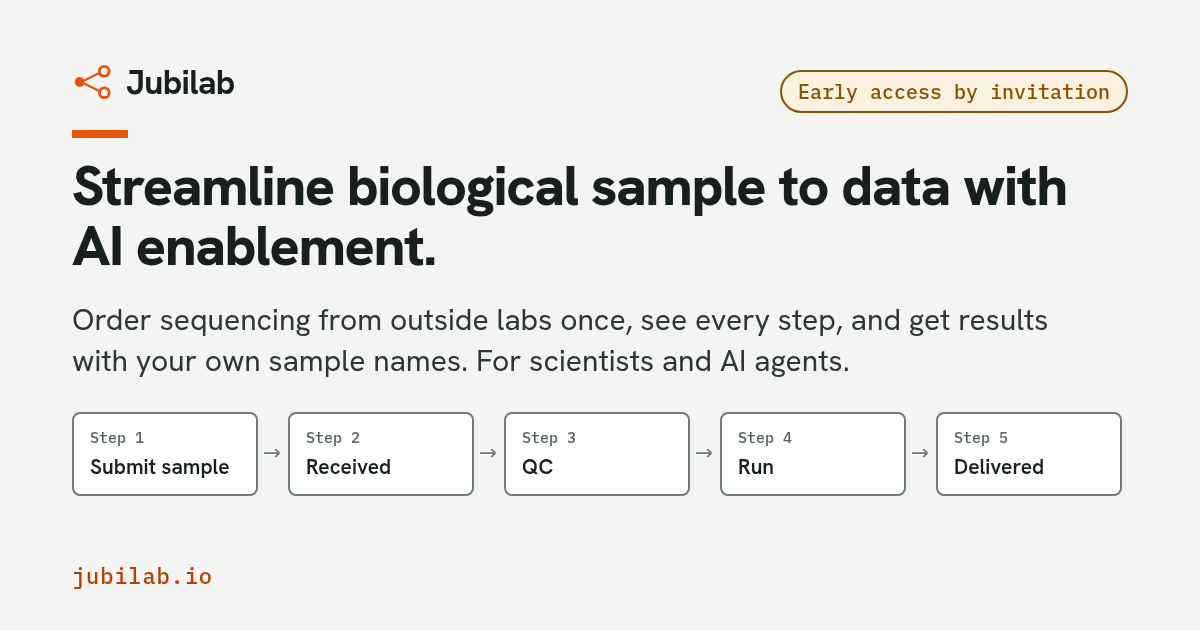
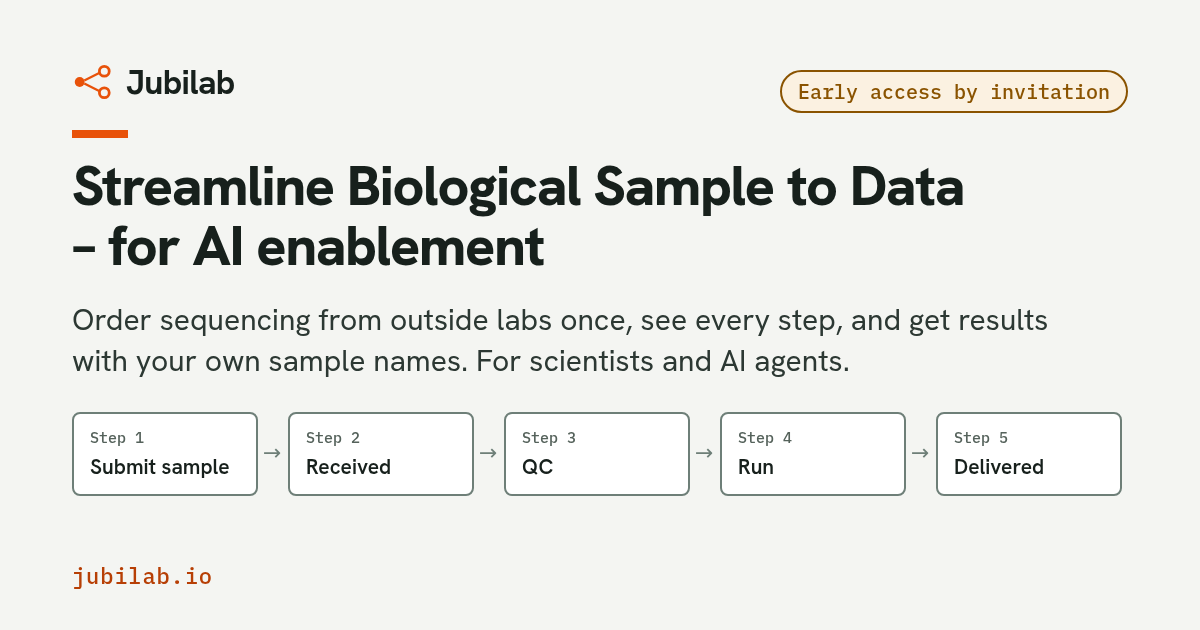
feat(site): new headline 'Streamline Biological Sample to Data – for AI enablement', smaller hero H1 (T-051)

Changed region(s): [[0.2775, 0.2413, 0.8942, 0.3317], [0.0617, 0.3619, 0.4625, 0.4222]]

diff --git a/index.html b/index.html
@@ -4,24 +4,24 @@
 <script>window.dataLayer=window.dataLayer||[];function gtag(){dataLayer.push(arguments)}gtag('consent','default',{ad_storage:'denied',ad_user_data:'denied',ad_personalization:'denied',analytics_storage:'denied'})</script>
 <meta charset="utf-8">
 <meta name="viewport" content="width=device-width, initial-scale=1">
-<title>Jubilab: streamline biological sample to data with AI enablement</title>
+<title>Jubilab: Streamline Biological Sample to Data – for AI enablement</title>
 <meta name="description" content="Early access by invitation. Jubilab is the sample operations layer that connects the people, labs, couriers and AI agents handling a sample, from order to data.">
 <meta name="theme-color" content="#ffffff">
 <link rel="canonical" href="https://jubilab.io/">
 <meta property="og:type" content="website">
 <meta property="og:site_name" content="Jubilab">
-<meta property="og:title" content="Jubilab: streamline biological sample to data with AI enablement">
+<meta property="og:title" content="Jubilab: Streamline Biological Sample to Data – for AI enablement">
 <meta property="og:description" content="Early access by invitation. Jubilab is the sample operations layer that connects the people, labs, couriers and AI agents handling a sample, from order to data.">
 <meta property="og:url" content="https://jubilab.io/">
 <meta property="og:image" content="https://jubilab.io/assets/og/jubilab-og.png">
 <meta property="og:image:width" content="1200">
 <meta property="og:image:height" content="630">
-<meta property="og:image:alt" content="Jubilab: streamline biological sample to data with AI enablement. An order moves from sample submission through received, QC and run to delivered. Early access by invitation.">
+<meta property="og:image:alt" content="Jubilab: Streamline Biological Sample to Data – for AI enablement. An order moves from sample submission through received, QC and run to delivered. Early access by invitation.">
 <meta name="twitter:card" content="summary_large_image">
-<meta name="twitter:title" content="Jubilab: streamline biological sample to data with AI enablement">
+<meta name="twitter:title" content="Jubilab: Streamline Biological Sample to Data – for AI enablement">
 <meta name="twitter:description" content="Early access by invitation. Jubilab is the sample operations layer that connects the people, labs, couriers and AI agents handling a sample, from order to data.">
 <meta name="twitter:image" content="https://jubilab.io/assets/og/jubilab-og.png">
-<meta name="twitter:image:alt" content="Jubilab: streamline biological sample to data with AI enablement. An order moves from sample submission through received, QC and run to delivered. Early access by invitation.">
+<meta name="twitter:image:alt" content="Jubilab: Streamline Biological Sample to Data – for AI enablement. An order moves from sample submission through received, QC and run to delivered. Early access by invitation.">
 <link rel="icon" href="assets/favicon.svg" type="image/svg+xml">
 <link rel="preload" href="assets/fonts/inter-latin-wght-normal.woff2" as="font" type="font/woff2" crossorigin>
 <link rel="preload" href="assets/fonts/manrope-latin-wght-normal.woff2" as="font" type="font/woff2" crossorigin>
@@ -80,7 +80,7 @@
   <div class="wrap hero-grid">
     <div class="hero-text">
       <span class="eyebrow">The sample operations layer</span>
-      <h1 id="h1">Streamline biological sample to data with AI enablement.</h1>
+      <h1 id="h1">Streamline Biological Sample to Data <span class="h1-tail">– for AI enablement</span></h1>
       <p class="hero-lead">So scientists and AI agents can order, track and read results across dry labs, wet labs and logistics.</p>
       <p class="hero-sub">For biotech teams, research groups and the labs that run their samples.</p>
       <div class="actions">

diff --git a/home.css b/home.css
@@ -66,13 +66,13 @@ section { padding:94px 0; }
 .hero { padding:78px 0 76px; overflow:hidden; }
 .hero-grid { display:grid; grid-template-columns:minmax(0,.95fr) minmax(0,1.05fr); align-items:center; gap:56px; }
 h1,h2,h3,p { margin-top:0; }
-h1 { max-width:720px; margin:18px 0 22px; font-size:clamp(2.1rem, 3.9vw, 3.45rem); line-height:1.04; letter-spacing:-.055em; font-weight:730; }
+h1 { max-width:720px; margin:18px 0 22px; font-size:clamp(1.85rem, 3.45vw, 3.05rem); line-height:1.04; letter-spacing:-.055em; font-weight:730; }
 .hero-lead { max-width:620px; color:#2b3a55; font-size:1.18rem; line-height:1.55; }
 .hero-sub { max-width:600px; margin:17px 0 28px; color:var(--muted); font-size:.98rem; }
 .actions { display:flex; flex-wrap:wrap; gap:11px; }
 section { padding:76px 0; border-top:1px solid var(--line); }
 .section-head { max-width:700px; margin-bottom:36px; }
-h2 { margin-bottom:15px; font-size:clamp(1.85rem, 3.5vw, 2.9rem); line-height:1.08; letter-spacing:-.055em; font-weight:720; }
+h2 { margin-bottom:15px; font-size:clamp(1.75rem, 3.3vw, 2.75rem); line-height:1.08; letter-spacing:-.055em; font-weight:720; }
 .section-intro { color:var(--muted); font-size:1.08rem; }
 h3 { margin-bottom:9px; font-size:1.12rem; line-height:1.3; letter-spacing:-.025em; }
 .muted { color:var(--muted); }
@@ -148,7 +148,7 @@ textarea { min-height:95px; resize:vertical; }
   .navlinks { width:100%; justify-content:space-between; order:3; font-size:.82rem; }
   .nav > .button { padding:9px 12px; font-size:.82rem; }
   .hero { padding:43px 0 55px; }
-  h1 { font-size:clamp(2.15rem, 10vw, 3.05rem); }
+  h1 { font-size:clamp(1.9rem, 8.9vw, 2.7rem); }
   section { padding:55px 0; }
   .comparison, .metrics, .form-grid { grid-template-columns:1fr; }
   .field.full { grid-column:auto; }
@@ -437,3 +437,4 @@ blockquote.story-quote { margin:0; }
     .biligene-logo { display:inline-block; margin:0 0 22px -10px; border-radius:8px; }
     .biligene-logo img { display:block; width:240px; max-width:100%; height:auto; }
     @media (max-width:600px) { .biligene-logo img { width:180px; } }
+    .h1-tail { white-space:nowrap; }

diff --git a/guides/what-parameters-produced-this-result/index.html b/guides/what-parameters-produced-this-result/index.html
@@ -16,12 +16,12 @@
 <meta property="og:image" content="https://jubilab.io/assets/og/jubilab-og.png">
 <meta property="og:image:width" content="1200">
 <meta property="og:image:height" content="630">
-<meta property="og:image:alt" content="Jubilab: streamline biological sample to data with AI enablement. An order moves from sample submission through received, QC and run to delivered. Early access by invitation.">
+<meta property="og:image:alt" content="Jubilab: Streamline Biological Sample to Data – for AI enablement. An order moves from sample submission through received, QC and run to delivered. Early access by invitation.">
 <meta name="twitter:card" content="summary_large_image">
 <meta name="twitter:title" content="What parameters produced this pipeline result? | Jubilab">
 <meta name="twitter:description" content="Find the parameters behind a pipeline result from Nextflow logs and params files, Snakemake metadata or shell history, see what gets lost, and what to record.">
 <meta name="twitter:image" content="https://jubilab.io/assets/og/jubilab-og.png">
-<meta name="twitter:image:alt" content="Jubilab: streamline biological sample to data with AI enablement. An order moves from sample submission through received, QC and run to delivered. Early access by invitation.">
+<meta name="twitter:image:alt" content="Jubilab: Streamline Biological Sample to Data – for AI enablement. An order moves from sample submission through received, QC and run to delivered. Early access by invitation.">
 <link rel="icon" href="../../assets/favicon.svg" type="image/svg+xml">
 <link rel="preload" href="../../assets/fonts/hanken-grotesk-latin-wght-normal.woff2" as="font" type="font/woff2" crossorigin>
 <link rel="preload" href="../../assets/fonts/ibm-plex-mono-latin-400-normal.woff2" as="font" type="font/woff2" crossorigin>

diff --git a/guides/index.html b/guides/index.html
@@ -16,12 +16,12 @@
 <meta property="og:image" content="https://jubilab.io/assets/og/jubilab-og.png">
 <meta property="og:image:width" content="1200">
 <meta property="og:image:height" content="630">
-<meta property="og:image:alt" content="Jubilab: streamline biological sample to data with AI enablement. An order moves from sample submission through received, QC and run to delivered. Early access by invitation.">
+<meta property="og:image:alt" content="Jubilab: Streamline Biological Sample to Data – for AI enablement. An order moves from sample submission through received, QC and run to delivered. Early access by invitation.">
 <meta name="twitter:card" content="summary_large_image">
 <meta name="twitter:title" content="Guides: genome builds, parameters, Nextflow provenance | Jubilab">
 <meta name="twitter:description" content="How-to guides for bioinformatics teams: check the reference genome build of a VCF, find the parameters behind a result, and compare Nextflow provenance tools.">
 <meta name="twitter:image" content="https://jubilab.io/assets/og/jubilab-og.png">
-<meta name="twitter:image:alt" content="Jubilab: streamline biological sample to data with AI enablement. An order moves from sample submission through received, QC and run to delivered. Early access by invitation.">
+<meta name="twitter:image:alt" content="Jubilab: Streamline Biological Sample to Data – for AI enablement. An order moves from sample submission through received, QC and run to delivered. Early access by invitation.">
 <link rel="icon" href="../assets/favicon.svg" type="image/svg+xml">
 <link rel="preload" href="../assets/fonts/hanken-grotesk-latin-wght-normal.woff2" as="font" type="font/woff2" crossorigin>
 <link rel="preload" href="../assets/fonts/ibm-plex-mono-latin-400-normal.woff2" as="font" type="font/woff2" crossorigin>

diff --git a/guides/reference-genome-build-vcf-bam/index.html b/guides/reference-genome-build-vcf-bam/index.html
@@ -16,12 +16,12 @@
 <meta property="og:image" content="https://jubilab.io/assets/og/jubilab-og.png">
 <meta property="og:image:width" content="1200">
 <meta property="og:image:height" content="630">
-<meta property="og:image:alt" content="Jubilab: streamline biological sample to data with AI enablement. An order moves from sample submission through received, QC and run to delivered. Early access by invitation.">
+<meta property="og:image:alt" content="Jubilab: Streamline Biological Sample to Data – for AI enablement. An order moves from sample submission through received, QC and run to delivered. Early access by invitation.">
 <meta name="twitter:card" content="summary_large_image">
 <meta name="twitter:title" content="Check the reference genome build of a VCF or BAM | Jubilab">
 <meta name="twitter:description" content="Read a VCF or BAM header with bcftools and samtools, compare contig lengths, test REF alleles and avoid chr-prefix and hg19 vs b37 traps. Tested commands.">
 <meta name="twitter:image" content="https://jubilab.io/assets/og/jubilab-og.png">
-<meta name="twitter:image:alt" content="Jubilab: streamline biological sample to data with AI enablement. An order moves from sample submission through received, QC and run to delivered. Early access by invitation.">
+<meta name="twitter:image:alt" content="Jubilab: Streamline Biological Sample to Data – for AI enablement. An order moves from sample submission through received, QC and run to delivered. Early access by invitation.">
 <link rel="icon" href="../../assets/favicon.svg" type="image/svg+xml">
 <link rel="preload" href="../../assets/fonts/hanken-grotesk-latin-wght-normal.woff2" as="font" type="font/woff2" crossorigin>
 <link rel="preload" href="../../assets/fonts/ibm-plex-mono-latin-400-normal.woff2" as="font" type="font/woff2" crossorigin>

diff --git a/guides/nextflow-provenance-and-lineage-compared/index.html b/guides/nextflow-provenance-and-lineage-compared/index.html
@@ -16,12 +16,12 @@
 <meta property="og:image" content="https://jubilab.io/assets/og/jubilab-og.png">
 <meta property="og:image:width" content="1200">
 <meta property="og:image:height" content="630">
-<meta property="og:image:alt" content="Jubilab: streamline biological sample to data with AI enablement. An order moves from sample submission through received, QC and run to delivered. Early access by invitation.">
+<meta property="og:image:alt" content="Jubilab: Streamline Biological Sample to Data – for AI enablement. An order moves from sample submission through received, QC and run to delivered. Early access by invitation.">
 <meta name="twitter:card" content="summary_large_image">
 <meta name="twitter:title" content="Nextflow provenance and lineage compared | Jubilab">
 <meta name="twitter:description" content="What Nextflow's log, trace, report and experimental lineage record, how Seqera Platform and Snakemake compare, and where a separate record beside them helps.">
 <meta name="twitter:image" content="https://jubilab.io/assets/og/jubilab-og.png">
-<meta name="twitter:image:alt" content="Jubilab: streamline biological sample to data with AI enablement. An order moves from sample submission through received, QC and run to delivered. Early access by invitation.">
+<meta name="twitter:image:alt" content="Jubilab: Streamline Biological Sample to Data – for AI enablement. An order moves from sample submission through received, QC and run to delivered. Early access by invitation.">
 <link rel="icon" href="../../assets/favicon.svg" type="image/svg+xml">
 <link rel="preload" href="../../assets/fonts/hanken-grotesk-latin-wght-normal.woff2" as="font" type="font/woff2" crossorigin>
 <link rel="preload" href="../../assets/fonts/ibm-plex-mono-latin-400-normal.woff2" as="font" type="font/woff2" crossorigin>

diff --git a/blog/index.html b/blog/index.html
@@ -16,12 +16,12 @@
 <meta property="og:image" content="https://jubilab.io/assets/og/jubilab-og.png">
 <meta property="og:image:width" content="1200">
 <meta property="og:image:height" content="630">
-<meta property="og:image:alt" content="Jubilab: streamline biological sample to data with AI enablement. An order moves from sample submission through received, QC and run to delivered. Early access by invitation.">
+<meta property="og:image:alt" content="Jubilab: Streamline Biological Sample to Data – for AI enablement. An order moves from sample submission through received, QC and run to delivered. Early access by invitation.">
 <meta name="twitter:card" content="summary_large_image">
 <meta name="twitter:title" content="Jubilab blog: how scientific results get made">
 <meta name="twitter:description" content="Notes from the Jubilab team on data provenance, lineage and reproducibility in bioinformatics, with sources and open questions where we are not yet sure.">
 <meta name="twitter:image" content="https://jubilab.io/assets/og/jubilab-og.png">
-<meta name="twitter:image:alt" content="Jubilab: streamline biological sample to data with AI enablement. An order moves from sample submission through received, QC and run to delivered. Early access by invitation.">
+<meta name="twitter:image:alt" content="Jubilab: Streamline Biological Sample to Data – for AI enablement. An order moves from sample submission through received, QC and run to delivered. Early access by invitation.">
 <link rel="icon" href="../assets/favicon.svg" type="image/svg+xml">
 <link rel="preload" href="../assets/fonts/hanken-grotesk-latin-wght-normal.woff2" as="font" type="font/woff2" crossorigin>
 <link rel="preload" href="../assets/fonts/ibm-plex-mono-latin-400-normal.woff2" as="font" type="font/woff2" crossorigin>

diff --git a/privacy/index.html b/privacy/index.html
@@ -16,12 +16,12 @@
 <meta property="og:image" content="https://jubilab.io/assets/og/jubilab-og.png">
 <meta property="og:image:width" content="1200">
 <meta property="og:image:height" content="630">
-<meta property="og:image:alt" content="Jubilab: streamline biological sample to data with AI enablement. An order moves from sample submission through received, QC and run to delivered. Early access by invitation.">
+<meta property="og:image:alt" content="Jubilab: Streamline Biological Sample to Data – for AI enablement. An order moves from sample submission through received, QC and run to delivered. Early access by invitation.">
 <meta name="twitter:card" content="summary_large_image">
 <meta name="twitter:title" content="Privacy | Jubilab">
 <meta name="twitter:description" content="How the Jubilab website handles your data: what the early-access form collects, what the site keeps in your browser, and how to ask us to delete your details.">
 <meta name="twitter:image" content="https://jubilab.io/assets/og/jubilab-og.png">
-<meta name="twitter:image:alt" content="Jubilab: streamline biological sample to data with AI enablement. An order moves from sample submission through received, QC and run to delivered. Early access by invitation.">
+<meta name="twitter:image:alt" content="Jubilab: Streamline Biological Sample to Data – for AI enablement. An order moves from sample submission through received, QC and run to delivered. Early access by invitation.">
 <link rel="icon" href="../assets/favicon.svg" type="image/svg+xml">
 <link rel="preload" href="../assets/fonts/hanken-grotesk-latin-wght-normal.woff2" as="font" type="font/woff2" crossorigin>
 <link rel="preload" href="../assets/fonts/ibm-plex-mono-latin-400-normal.woff2" as="font" type="font/woff2" crossorigin>

diff --git a/terms/index.html b/terms/index.html
@@ -16,12 +16,12 @@
 <meta property="og:image" content="https://jubilab.io/assets/og/jubilab-og.png">
 <meta property="og:image:width" content="1200">
 <meta property="og:image:height" content="630">
-<meta property="og:image:alt" content="Jubilab: streamline biological sample to data with AI enablement. An order moves from sample submission through received, QC and run to delivered. Early access by invitation.">
+<meta property="og:image:alt" content="Jubilab: Streamline Biological Sample to Data – for AI enablement. An order moves from sample submission through received, QC and run to delivered. Early access by invitation.">
 <meta name="twitter:card" content="summary_large_image">
 <meta name="twitter:title" content="Terms | Jubilab">
 <meta name="twitter:description" content="The terms for using the Jubilab website and requesting early access: what early access means, acceptable use, liability, governing law, and how to contact us.">
 <meta name="twitter:image" content="https://jubilab.io/assets/og/jubilab-og.png">
-<meta name="twitter:image:alt" content="Jubilab: streamline biological sample to data with AI enablement. An order moves from sample submission through received, QC and run to delivered. Early access by invitation.">
+<meta name="twitter:image:alt" content="Jubilab: Streamline Biological Sample to Data – for AI enablement. An order moves from sample submission through received, QC and run to delivered. Early access by invitation.">
 <link rel="icon" href="../assets/favicon.svg" type="image/svg+xml">
 <link rel="preload" href="../assets/fonts/hanken-grotesk-latin-wght-normal.woff2" as="font" type="font/woff2" crossorigin>
 <link rel="preload" href="../assets/fonts/ibm-plex-mono-latin-400-normal.woff2" as="font" type="font/woff2" crossorigin>

diff --git a/thanks/index.html b/thanks/index.html
@@ -18,12 +18,12 @@
 <meta property="og:image" content="https://jubilab.io/assets/og/jubilab-og.png">
 <meta property="og:image:width" content="1200">
 <meta property="og:image:height" content="630">
-<meta property="og:image:alt" content="Jubilab: streamline biological sample to data with AI enablement. An order moves from sample submission through received, QC and run to delivered. Early access by invitation.">
+<meta property="og:image:alt" content="Jubilab: Streamline Biological Sample to Data – for AI enablement. An order moves from sample submission through received, QC and run to delivered. Early access by invitation.">
 <meta name="twitter:card" content="summary_large_image">
 <meta name="twitter:title" content="Thank you | Jubilab">
 <meta name="twitter:description" content="Your early-access request was received.">
 <meta name="twitter:image" content="https://jubilab.io/assets/og/jubilab-og.png">
-<meta name="twitter:image:alt" content="Jubilab: streamline biological sample to data with AI enablement. An order moves from sample submission through received, QC and run to delivered. Early access by invitation.">
+<meta name="twitter:image:alt" content="Jubilab: Streamline Biological Sample to Data – for AI enablement. An order moves from sample submission through received, QC and run to delivered. Early access by invitation.">
 <link rel="icon" href="../assets/favicon.svg" type="image/svg+xml">
 <link rel="preload" href="../assets/fonts/hanken-grotesk-latin-wght-normal.woff2" as="font" type="font/woff2" crossorigin>
 <link rel="preload" href="../assets/fonts/ibm-plex-mono-latin-400-normal.woff2" as="font" type="font/woff2" crossorigin>

diff --git a/404.html b/404.html
@@ -16,12 +16,12 @@
 <meta property="og:image" content="https://jubilab.io/assets/og/jubilab-og.png">
 <meta property="og:image:width" content="1200">
 <meta property="og:image:height" content="630">
-<meta property="og:image:alt" content="Jubilab: streamline biological sample to data with AI enablement. An order moves from sample submission through received, QC and run to delivered. Early access by invitation.">
+<meta property="og:image:alt" content="Jubilab: Streamline Biological Sample to Data – for AI enablement. An order moves from sample submission through received, QC and run to delivered. Early access by invitation.">
 <meta name="twitter:card" content="summary_large_image">
 <meta name="twitter:title" content="Page not found | Jubilab">
 <meta name="twitter:description" content="This page does not exist.">
 <meta name="twitter:image" content="https://jubilab.io/assets/og/jubilab-og.png">
-<meta name="twitter:image:alt" content="Jubilab: streamline biological sample to data with AI enablement. An order moves from sample submission through received, QC and run to delivered. Early access by invitation.">
+<meta name="twitter:image:alt" content="Jubilab: Streamline Biological Sample to Data – for AI enablement. An order moves from sample submission through received, QC and run to delivered. Early access by invitation.">
 <link rel="icon" href="/assets/favicon.svg" type="image/svg+xml">
 <link rel="preload" href="/assets/fonts/hanken-grotesk-latin-wght-normal.woff2" as="font" type="font/woff2" crossorigin>
 <link rel="preload" href="/assets/fonts/ibm-plex-mono-latin-400-normal.woff2" as="font" type="font/woff2" crossorigin>

diff --git a/assets/og/og-source.html b/assets/og/og-source.html
@@ -22,7 +22,7 @@ p{position:absolute;left:72px;top:300px;margin:0;font-size:30px;line-height:1.35
 </style></head><body>
 <div class="brand"><svg viewBox="0 0 26 26"><circle cx="5" cy="13" r="3.2" fill="#e8520a"/><circle cx="21" cy="6" r="3.2" fill="none" stroke="#e8520a" stroke-width="1.8"/><circle cx="21" cy="20" r="3.2" fill="none" stroke="#e8520a" stroke-width="1.8"/><path d="M8 12 L18 7 M8 14 L18 19" stroke="#e8520a" stroke-width="1.5" fill="none"/></svg>Jubilab</div>
 <div class="bar"></div>
-<h1>Streamline biological sample to data with AI enablement.</h1>
+<h1>Streamline Biological Sample to Data <span style="white-space:nowrap">– for AI enablement</span></h1>
 <p>Order sequencing from outside labs once, see every step, and get results with your own sample names. For scientists and AI agents.</p>
 <div class="tag">Early access by invitation</div>
 <div class="url">jubilab.io</div>
